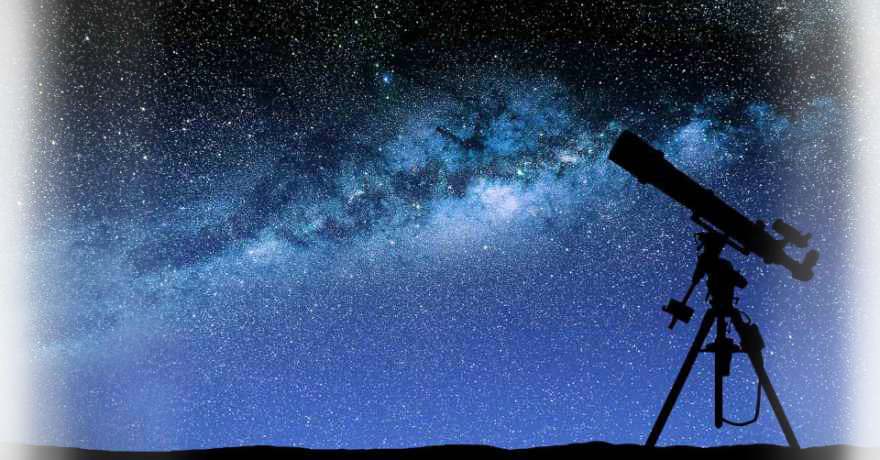
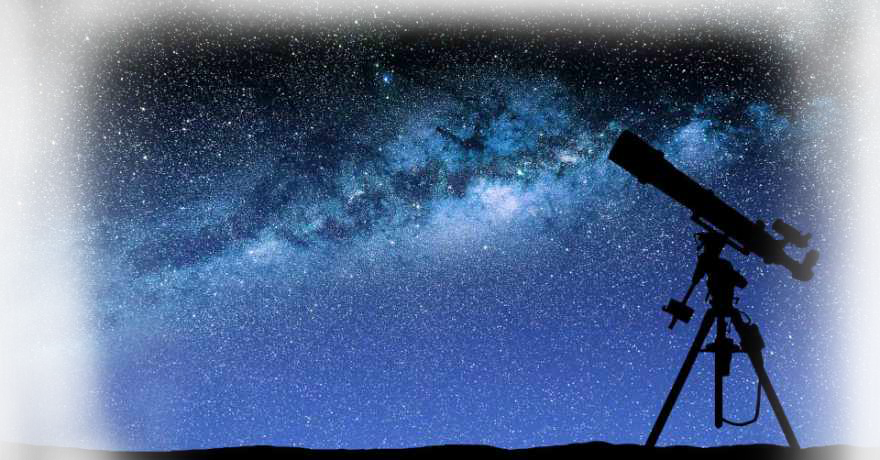
123

Changed region(s): [[0.0, 0.0, 0.9818, 1.0]]

diff --git a/Theory/index.html b/Theory/index.html
@@ -19,7 +19,7 @@
 				через наблюдения и измерения с использованием достижений смежных
 				с астрономией наук (особенно физики), благодаря чему картина взглядов на мир уточнялась и изменялась.
 				<div>
-					<img src="2.png" width="900" height="500">
+					<img src="3.png" width="900" height="500">
 				</div>
 				<p class="paragraph" id="example">
 				В наше время астрономия использует всё более совершенную наблюдательную технику. Современные приёмники излучения передают информацию непосредственно в компьютеры.
